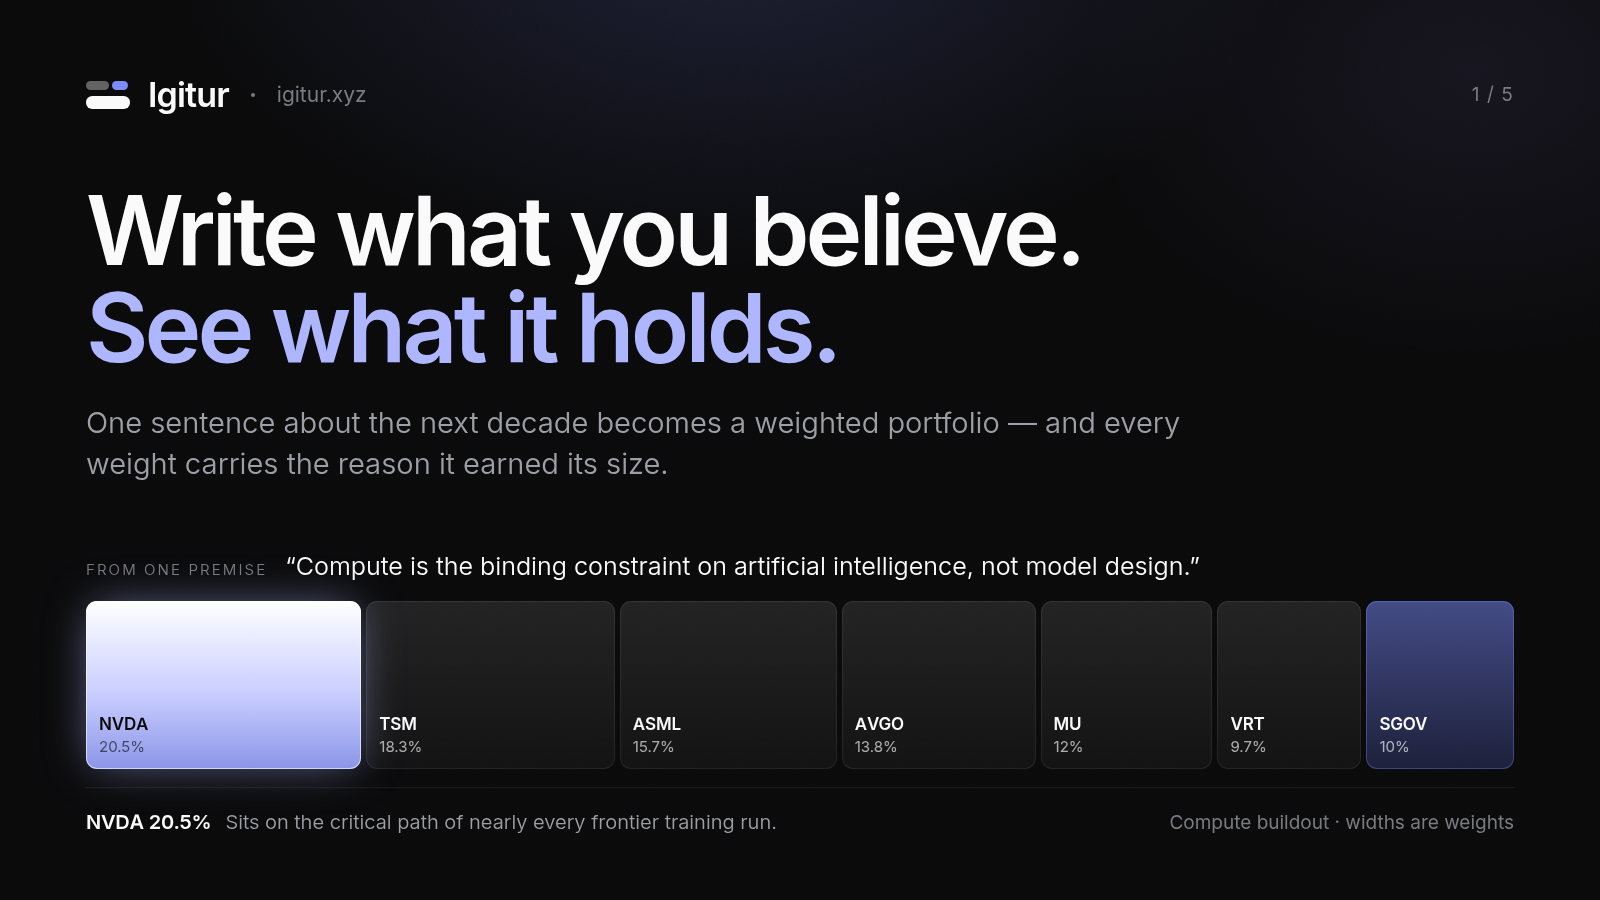
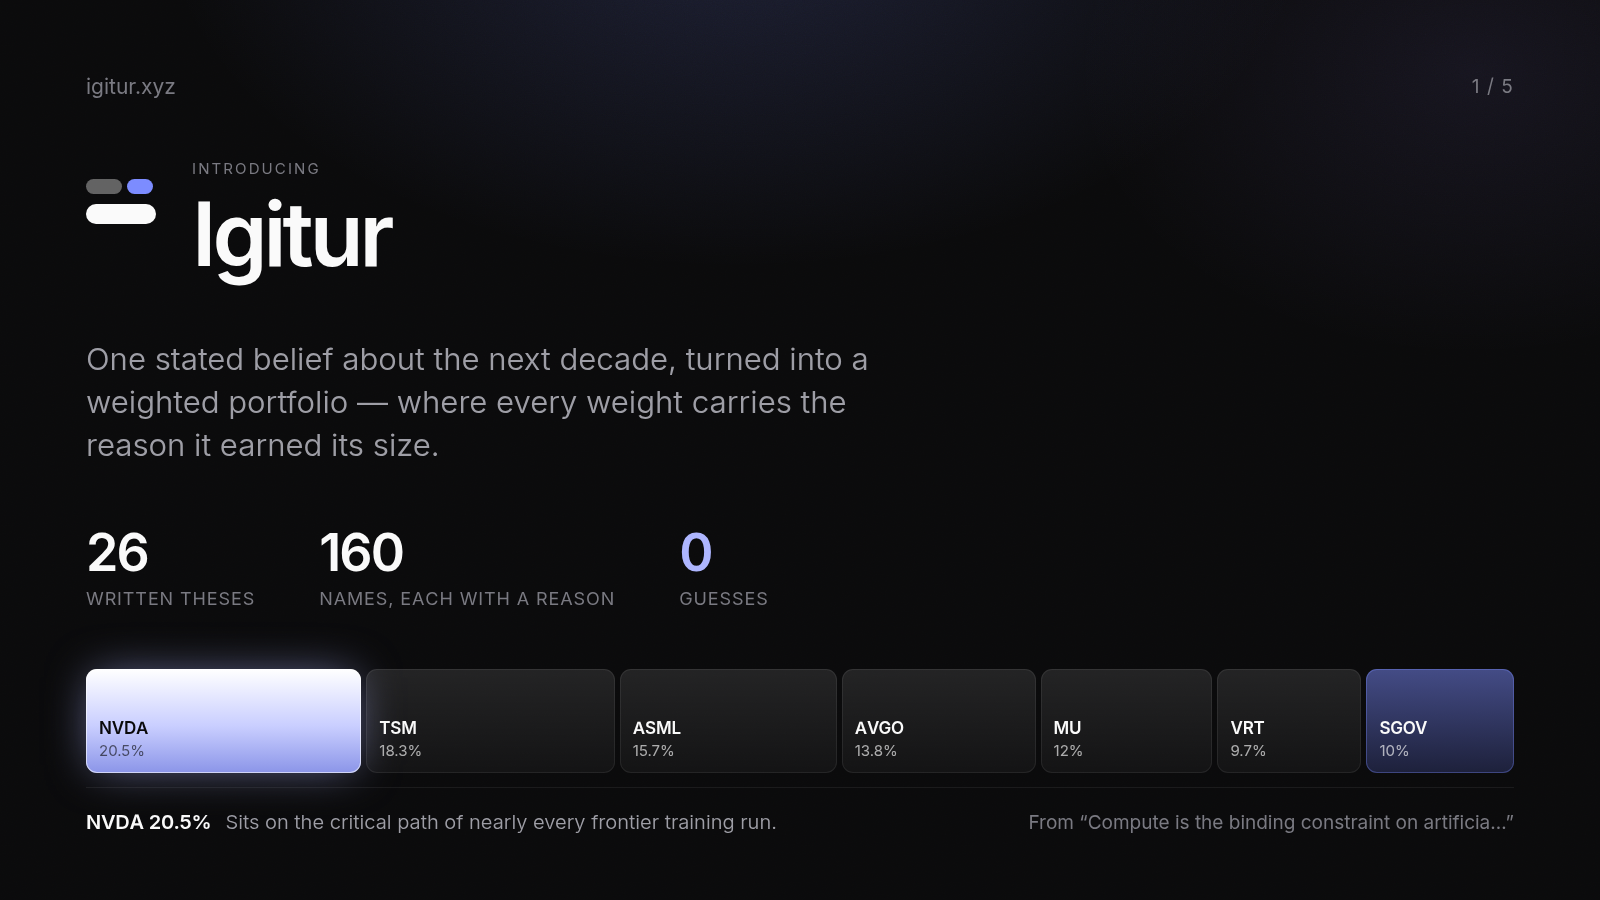
Make the first card an introduction
It led with a value proposition to an audience that has never heard the name.
The first card of a launch thread has one job — say what this is and how big it
is — and a stranger scrolling past could not learn either from a headline about
writing what you believe.

It now carries the wordmark, one sentence of definition, and three figures from
lib/universe: 26 written theses, 160 names, and no guessing. The bar stays as
the proof underneath.

The brand row comes off this card only. Its first draft kept the small mark in
the header above the large one in the body, and two marks in one image reads as
a layout mistake rather than a system.

Claude-Session: https://claude.ai/code/session_013haw1v4FXDRu7kh5aZW8we

diff --git a/brand/x/01-intro.html b/brand/x/01-intro.html
@@ -61,6 +61,21 @@ h1.wide{max-width:27ch}
 .foot .why b{color:var(--fg);font-weight:600;margin-right:14px;letter-spacing:-.01em}
 .foot .meta{color:var(--fg-4);white-space:nowrap;font-size:19px}
 
+/* Card 1: the introduction. A name, what it is, and its size — the three
+   things a stranger scrolling past has no way to know. */
+.intro-mark{display:flex;flex-direction:column;gap:10px;width:70px}
+.intro-mark .top{display:flex;gap:5px;height:14.5px}
+.intro-mark .p1{width:36.3px;background:rgba(255,255,255,.36);border-radius:8.5px}
+.intro-mark .p2{width:25.4px;background:var(--ac);border-radius:8.5px}
+.intro-mark .concl{width:70px;height:19.9px;background:var(--fg);border-radius:11.65px}
+.wordmark{font-size:88px;font-weight:600;letter-spacing:-.045em;line-height:1}
+.tagline{font-size:31px;color:var(--fg-2);font-weight:350;max-width:52ch;line-height:1.38}
+.stats{display:flex;gap:64px}
+.stat b{display:block;font-size:52px;font-weight:600;letter-spacing:-.035em;line-height:1}
+.stat span{display:block;font-size:18px;color:var(--fg-4);margin-top:9px;letter-spacing:.05em;
+  text-transform:uppercase}
+.stat.accent b{color:var(--ac-2)}
+
 /* Card 2: the reasons, which are the product. */
 .rows{display:flex;flex-direction:column;gap:2px}
 .row{display:grid;grid-template-columns:118px 1fr 96px;gap:26px;align-items:baseline;
@@ -121,20 +136,30 @@ h1.wide{max-width:27ch}
 </style>
 <div class="glow"></div><div class="grain"></div>
 <div class="wrap">
-  <div class="brand">
-    <div class="mark"><div class="top"><div class="p1"></div><div class="p2"></div></div><div class="concl"></div></div>
-    <div class="name">Igitur</div><div class="dot"></div><div class="url">igitur.xyz</div>
-    <div class="step">1 / 5</div>
-  </div>
+  <div class="brand"><div class="url">igitur.xyz</div><div class="step">1 / 5</div></div>
   
-  <div>
-    <h1>Write what you believe.<br><em>See what it holds.</em></h1>
-    <p class="sub">One sentence about the next decade becomes a weighted portfolio — and every
-      weight carries the reason it earned its size.</p>
+  <div style="display:flex;align-items:flex-start;gap:36px">
+    <div class="intro-mark" style="margin-top:20px">
+      <div class="top"><div class="p1"></div><div class="p2"></div></div>
+      <div class="concl"></div>
+    </div>
+    <div>
+      <p class="kick" style="margin-bottom:12px">Introducing</p>
+      <h1 class="wordmark">Igitur</h1>
+    </div>
   </div>
-  <div style="display:flex;flex-direction:column;gap:18px">
-    <p class="claim"><span class="kick">From one premise</span>“Compute is the binding constraint on artificial intelligence, not model design.”</p>
-    <div class="bar"><div class="lead" style="flex:20.5">
+
+  <p class="tagline">One stated belief about the next decade, turned into a weighted portfolio —
+    where every weight carries the reason it earned its size.</p>
+
+  <div class="stats">
+    <div class="stat"><b>26</b><span>Written theses</span></div>
+    <div class="stat"><b>160</b><span>Names, each with a reason</span></div>
+    <div class="stat accent"><b>0</b><span>Guesses</span></div>
+  </div>
+
+  <div style="display:flex;flex-direction:column;gap:14px">
+    <div class="bar" style="height:104px"><div class="lead" style="flex:20.5">
       <b>NVDA</b><i>20.5%</i></div><div class="" style="flex:18.3">
       <b>TSM</b><i>18.3%</i></div><div class="" style="flex:15.7">
       <b>ASML</b><i>15.7%</i></div><div class="" style="flex:13.8">
@@ -144,7 +169,8 @@ h1.wide{max-width:27ch}
       <b>SGOV</b><i>10%</i></div></div>
     <div class="foot">
       <span class="why"><b>NVDA 20.5%</b>Sits on the critical path of nearly every frontier training run.</span>
-      <span class="meta">Compute buildout · widths are weights</span>
+      <span class="meta">From “Compute is the binding constraint on artificia…”</span>
     </div>
   </div>
+
 </div>

diff --git a/brand/x/02-reasons.html b/brand/x/02-reasons.html
@@ -61,6 +61,21 @@ h1.wide{max-width:27ch}
 .foot .why b{color:var(--fg);font-weight:600;margin-right:14px;letter-spacing:-.01em}
 .foot .meta{color:var(--fg-4);white-space:nowrap;font-size:19px}
 
+/* Card 1: the introduction. A name, what it is, and its size — the three
+   things a stranger scrolling past has no way to know. */
+.intro-mark{display:flex;flex-direction:column;gap:10px;width:70px}
+.intro-mark .top{display:flex;gap:5px;height:14.5px}
+.intro-mark .p1{width:36.3px;background:rgba(255,255,255,.36);border-radius:8.5px}
+.intro-mark .p2{width:25.4px;background:var(--ac);border-radius:8.5px}
+.intro-mark .concl{width:70px;height:19.9px;background:var(--fg);border-radius:11.65px}
+.wordmark{font-size:88px;font-weight:600;letter-spacing:-.045em;line-height:1}
+.tagline{font-size:31px;color:var(--fg-2);font-weight:350;max-width:52ch;line-height:1.38}
+.stats{display:flex;gap:64px}
+.stat b{display:block;font-size:52px;font-weight:600;letter-spacing:-.035em;line-height:1}
+.stat span{display:block;font-size:18px;color:var(--fg-4);margin-top:9px;letter-spacing:.05em;
+  text-transform:uppercase}
+.stat.accent b{color:var(--ac-2)}
+
 /* Card 2: the reasons, which are the product. */
 .rows{display:flex;flex-direction:column;gap:2px}
 .row{display:grid;grid-template-columns:118px 1fr 96px;gap:26px;align-items:baseline;

diff --git a/brand/x/03-refusal.html b/brand/x/03-refusal.html
@@ -61,6 +61,21 @@ h1.wide{max-width:27ch}
 .foot .why b{color:var(--fg);font-weight:600;margin-right:14px;letter-spacing:-.01em}
 .foot .meta{color:var(--fg-4);white-space:nowrap;font-size:19px}
 
+/* Card 1: the introduction. A name, what it is, and its size — the three
+   things a stranger scrolling past has no way to know. */
+.intro-mark{display:flex;flex-direction:column;gap:10px;width:70px}
+.intro-mark .top{display:flex;gap:5px;height:14.5px}
+.intro-mark .p1{width:36.3px;background:rgba(255,255,255,.36);border-radius:8.5px}
+.intro-mark .p2{width:25.4px;background:var(--ac);border-radius:8.5px}
+.intro-mark .concl{width:70px;height:19.9px;background:var(--fg);border-radius:11.65px}
+.wordmark{font-size:88px;font-weight:600;letter-spacing:-.045em;line-height:1}
+.tagline{font-size:31px;color:var(--fg-2);font-weight:350;max-width:52ch;line-height:1.38}
+.stats{display:flex;gap:64px}
+.stat b{display:block;font-size:52px;font-weight:600;letter-spacing:-.035em;line-height:1}
+.stat span{display:block;font-size:18px;color:var(--fg-4);margin-top:9px;letter-spacing:.05em;
+  text-transform:uppercase}
+.stat.accent b{color:var(--ac-2)}
+
 /* Card 2: the reasons, which are the product. */
 .rows{display:flex;flex-direction:column;gap:2px}
 .row{display:grid;grid-template-columns:118px 1fr 96px;gap:26px;align-items:baseline;

diff --git a/brand/x/04-benchmark.html b/brand/x/04-benchmark.html
@@ -61,6 +61,21 @@ h1.wide{max-width:27ch}
 .foot .why b{color:var(--fg);font-weight:600;margin-right:14px;letter-spacing:-.01em}
 .foot .meta{color:var(--fg-4);white-space:nowrap;font-size:19px}
 
+/* Card 1: the introduction. A name, what it is, and its size — the three
+   things a stranger scrolling past has no way to know. */
+.intro-mark{display:flex;flex-direction:column;gap:10px;width:70px}
+.intro-mark .top{display:flex;gap:5px;height:14.5px}
+.intro-mark .p1{width:36.3px;background:rgba(255,255,255,.36);border-radius:8.5px}
+.intro-mark .p2{width:25.4px;background:var(--ac);border-radius:8.5px}
+.intro-mark .concl{width:70px;height:19.9px;background:var(--fg);border-radius:11.65px}
+.wordmark{font-size:88px;font-weight:600;letter-spacing:-.045em;line-height:1}
+.tagline{font-size:31px;color:var(--fg-2);font-weight:350;max-width:52ch;line-height:1.38}
+.stats{display:flex;gap:64px}
+.stat b{display:block;font-size:52px;font-weight:600;letter-spacing:-.035em;line-height:1}
+.stat span{display:block;font-size:18px;color:var(--fg-4);margin-top:9px;letter-spacing:.05em;
+  text-transform:uppercase}
+.stat.accent b{color:var(--ac-2)}
+
 /* Card 2: the reasons, which are the product. */
 .rows{display:flex;flex-direction:column;gap:2px}
 .row{display:grid;grid-template-columns:118px 1fr 96px;gap:26px;align-items:baseline;

diff --git a/brand/x/05-record.html b/brand/x/05-record.html
@@ -61,6 +61,21 @@ h1.wide{max-width:27ch}
 .foot .why b{color:var(--fg);font-weight:600;margin-right:14px;letter-spacing:-.01em}
 .foot .meta{color:var(--fg-4);white-space:nowrap;font-size:19px}
 
+/* Card 1: the introduction. A name, what it is, and its size — the three
+   things a stranger scrolling past has no way to know. */
+.intro-mark{display:flex;flex-direction:column;gap:10px;width:70px}
+.intro-mark .top{display:flex;gap:5px;height:14.5px}
+.intro-mark .p1{width:36.3px;background:rgba(255,255,255,.36);border-radius:8.5px}
+.intro-mark .p2{width:25.4px;background:var(--ac);border-radius:8.5px}
+.intro-mark .concl{width:70px;height:19.9px;background:var(--fg);border-radius:11.65px}
+.wordmark{font-size:88px;font-weight:600;letter-spacing:-.045em;line-height:1}
+.tagline{font-size:31px;color:var(--fg-2);font-weight:350;max-width:52ch;line-height:1.38}
+.stats{display:flex;gap:64px}
+.stat b{display:block;font-size:52px;font-weight:600;letter-spacing:-.035em;line-height:1}
+.stat span{display:block;font-size:18px;color:var(--fg-4);margin-top:9px;letter-spacing:.05em;
+  text-transform:uppercase}
+.stat.accent b{color:var(--ac-2)}
+
 /* Card 2: the reasons, which are the product. */
 .rows{display:flex;flex-direction:column;gap:2px}
 .row{display:grid;grid-template-columns:118px 1fr 96px;gap:26px;align-items:baseline;

diff --git a/brand/x/README.md b/brand/x/README.md
@@ -4,13 +4,13 @@
 
 | File | Post | What it carries |
 |---|---|---|
-| `01-statement.png` | 1/5 | The proposition, with the allocation bar |
+|  `01-intro.png` | 1/5 | The name, what it is, its size, and the bar |
 | `02-reasons.png` | 2/5 | The holdings and the reason under each weight |
 | `03-refusal.png` | 3/5 | A premise the generator genuinely refuses |
 | `04-benchmark.png` | 4/5 | Why half of all books lose to the index |
 | `05-record.png` | 5/5 | A dated claim on the public record |
 
-3200×1800 (16:9 at 2×). `x-post-banner.png` is the same as card 1, kept under
+3200×1800 (16:9 at 2×). `x-post-banner.png` is a copy of card 1, kept under
 its old name for a standalone post.
 
 Not the profile header — that is `../x-header.png`, 1500×500.
